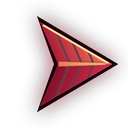
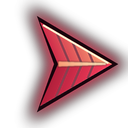
Flèche vers le boss plus visible : plus lumineuse, halo, clignotement
Claude-Session: https://claude.ai/code/session_01QqM7amBZEc2xH65DxoKFa4

diff --git a/ui/screens/GameScene.cpp b/ui/screens/GameScene.cpp
@@ -284,10 +284,17 @@ void GameScene::drawBossArrow(const WorldView& view) {
     float ty = std::abs(d.y) > 1e-3f ? (frame.h * 0.5f) / std::abs(d.y) : 1e9f;
     Vec2 p = c + d * std::min(tx, ty);
     float angle = std::atan2(d.y, d.x) * 57.29578f;
-    float pulse = 1.0f + 0.08f * std::sin(ui.time() * 6.0f);
-    float size = ui.s(76) * pulse;
+    // Blinks (bright 0.32 s, dim 0.18 s) with an additive halo while bright: seen at once.
+    bool bright = std::fmod(ui.time(), 0.5f) < 0.32f;
+    float pulse = 1.0f + 0.1f * std::sin(ui.time() * 12.0f);
+    float size = ui.s(84) * (bright ? pulse : 0.92f);
     Rect dst = Rect::fromCenter(p, {size, size});
-    ui.r().drawTexture(*tex, nullptr, dst, Color::white().withAlphaF(0.92f), BlendMode::Alpha, false, false, angle);
+    ui.r().drawTexture(*tex, nullptr, dst, Color::white().withAlphaF(bright ? 1.0f : 0.45f), BlendMode::Alpha, false, false, angle);
+    if (bright) {
+        Rect halo = Rect::fromCenter(p, {size * 1.35f, size * 1.35f});
+        ui.r().drawTexture(*tex, nullptr, halo, Color{255, 150, 150, 255}.withAlphaF(0.55f), BlendMode::Additive, false, false, angle);
+        ui.r().drawTexture(*tex, nullptr, dst, Color::white().withAlphaF(0.5f), BlendMode::Additive, false, false, angle);
+    }
 }
 
 void GameScene::bossFeedback() {

diff --git a/tools/assetgen/boss_arrow.py b/tools/assetgen/boss_arrow.py
@@ -15,10 +15,10 @@ OUT = os.path.join(ROOT, "assets", "ui", "boss_arrow.png")
 S = 4  # supersampling
 SIZE = 128
 
-DEEP = (92, 8, 28)
-RED = (232, 44, 78)
-HOT = (255, 120, 92)
-GOLD = (255, 214, 140)
+DEEP = (150, 20, 46)
+RED = (255, 64, 96)
+HOT = (255, 168, 120)
+GOLD = (255, 244, 200)
 OUTLINE = (24, 4, 12)
 
 
@@ -44,9 +44,10 @@ def main():
     # Glow behind.
     glow = Image.new("RGBA", (n, n), (0, 0, 0, 0))
     gd = ImageDraw.Draw(glow)
-    gd.polygon(sc([(118, 64), (36, 14), (52, 64), (36, 114)]), fill=(255, 60, 90, 170))
-    glow = glow.filter(ImageFilter.GaussianBlur(9 * S))
+    gd.polygon(sc([(124, 64), (30, 8), (50, 64), (30, 120)]), fill=(255, 80, 110, 255))
+    glow = glow.filter(ImageFilter.GaussianBlur(7 * S))
     img = Image.alpha_composite(img, glow)
+    img = Image.alpha_composite(img, glow)  # twice: a brighter halo
 
     # Outline then the two faceted halves (light upper face, darker lower face).
     d = ImageDraw.Draw(img)
